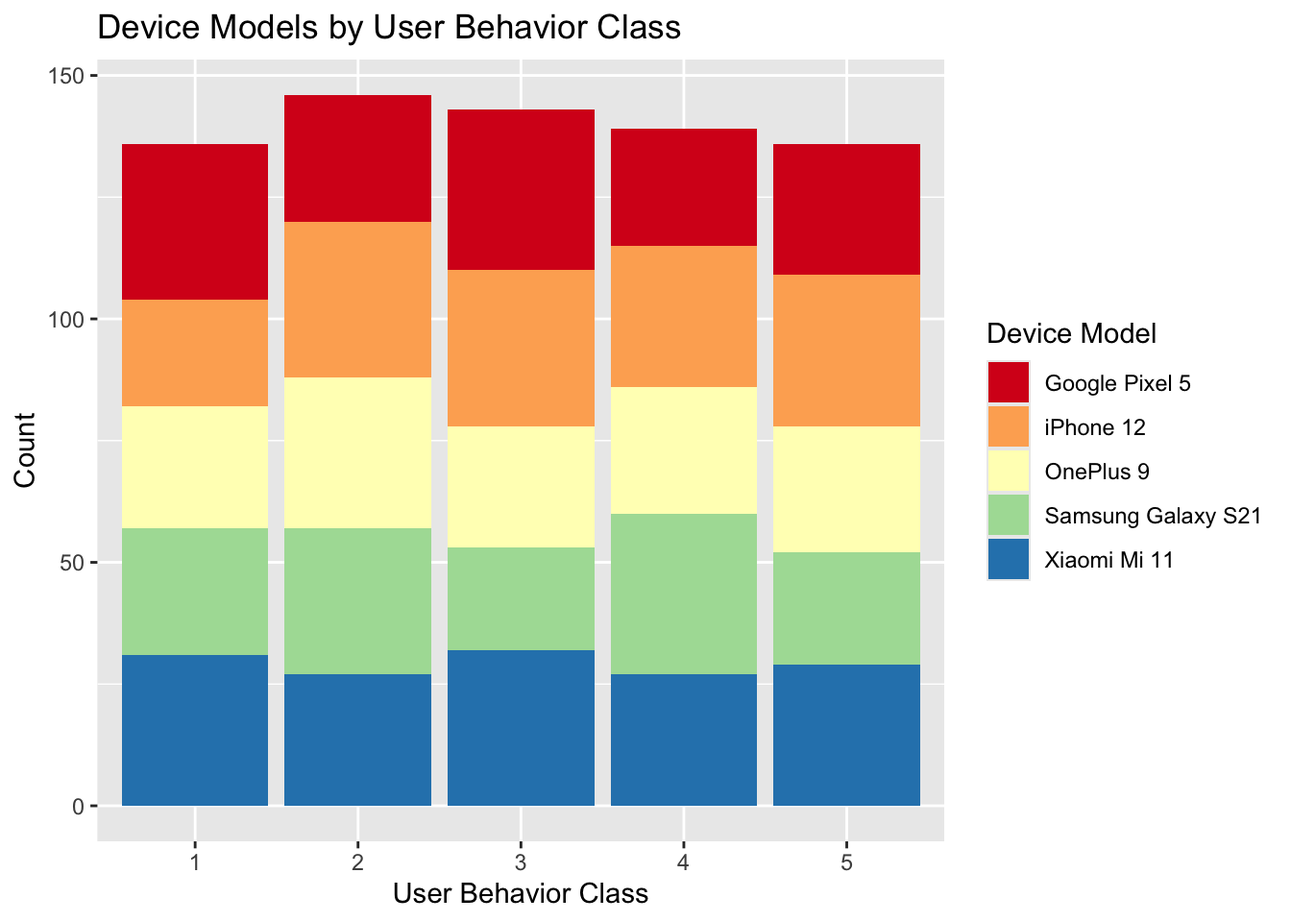
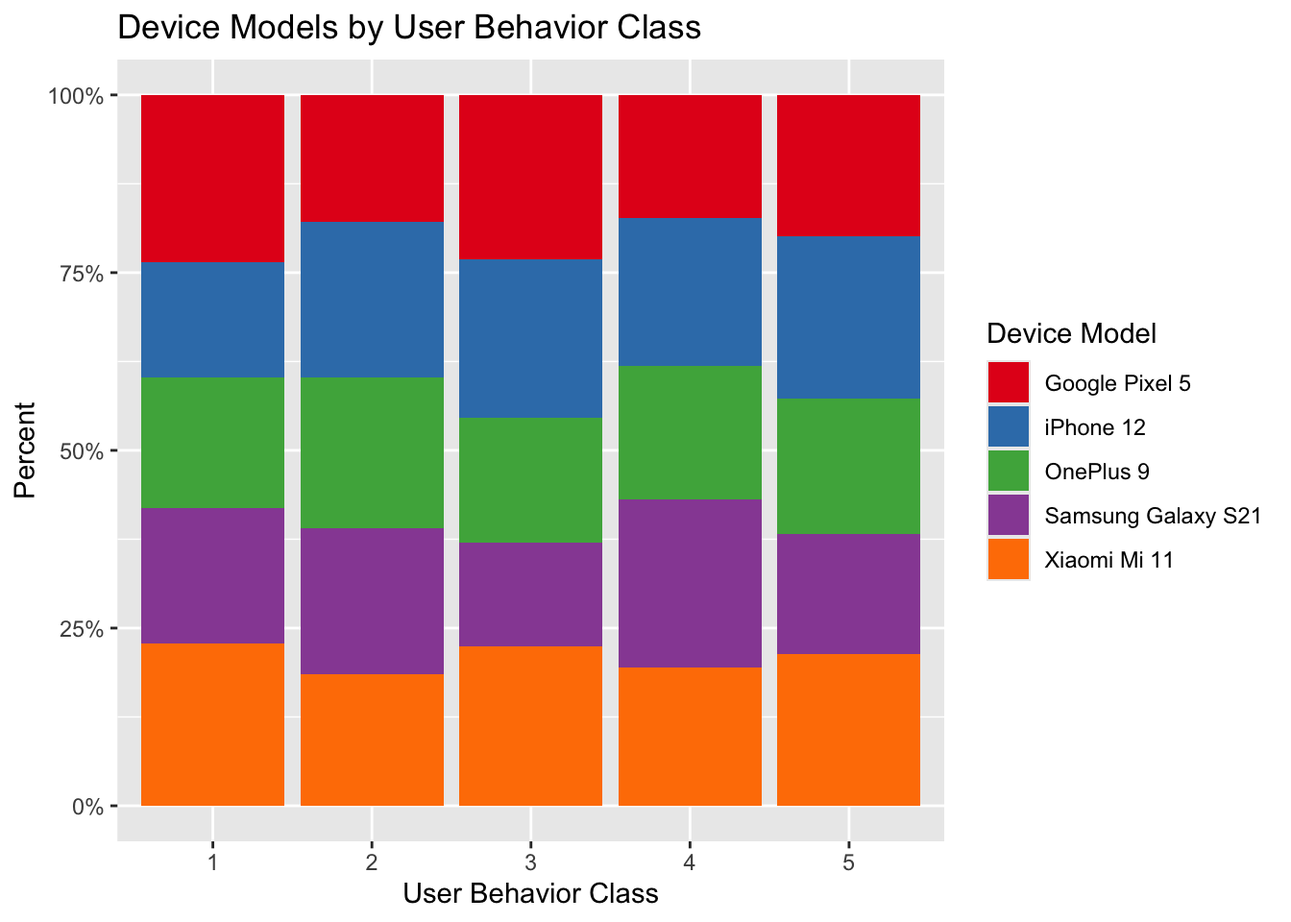
Graphs created

diff --git a/docs/mobile_usage_app_prep.html b/docs/mobile_usage_app_prep.html
@@ -157,14 +157,16 @@ The following objects are masked from 'package:stats':
 
     chisq.test, fisher.test</code></pre>
 </div>
+<div class="sourceCode cell-code" id="cb5"><pre class="sourceCode r code-with-copy"><code class="sourceCode r"><span id="cb5-1"><a href="#cb5-1" aria-hidden="true" tabindex="-1"></a><span class="fu">library</span>(ggalluvial)</span>
+<span id="cb5-2"><a href="#cb5-2" aria-hidden="true" tabindex="-1"></a><span class="fu">library</span>(ggmosaic)</span></code><button title="Copy to Clipboard" class="code-copy-button"><i class="bi"></i></button></pre></div>
 </div>
 <p>###Read in data set</p>
 <div class="cell">
-<div class="sourceCode cell-code" id="cb5"><pre class="sourceCode r code-with-copy"><code class="sourceCode r"><span id="cb5-1"><a href="#cb5-1" aria-hidden="true" tabindex="-1"></a>user_behavior_dataset <span class="ot">&lt;-</span></span>
-<span id="cb5-2"><a href="#cb5-2" aria-hidden="true" tabindex="-1"></a>  <span class="fu">read_csv</span>(<span class="st">"user_behavior_dataset.csv"</span>) <span class="sc">|&gt;</span></span>
-<span id="cb5-3"><a href="#cb5-3" aria-hidden="true" tabindex="-1"></a>  <span class="fu">clean_names</span>() <span class="sc">|&gt;</span></span>
-<span id="cb5-4"><a href="#cb5-4" aria-hidden="true" tabindex="-1"></a>  <span class="fu">mutate</span>(<span class="fu">across</span>(<span class="fu">c</span>(device_model, operating_system, gender, user_behavior_class), as.factor)) <span class="sc">|&gt;</span></span>
-<span id="cb5-5"><a href="#cb5-5" aria-hidden="true" tabindex="-1"></a>  <span class="fu">mutate</span>(<span class="at">user_id =</span> <span class="fu">as.character</span>(user_id))</span></code><button title="Copy to Clipboard" class="code-copy-button"><i class="bi"></i></button></pre></div>
+<div class="sourceCode cell-code" id="cb6"><pre class="sourceCode r code-with-copy"><code class="sourceCode r"><span id="cb6-1"><a href="#cb6-1" aria-hidden="true" tabindex="-1"></a>user_behavior_dataset <span class="ot">&lt;-</span></span>
+<span id="cb6-2"><a href="#cb6-2" aria-hidden="true" tabindex="-1"></a>  <span class="fu">read_csv</span>(<span class="st">"user_behavior_dataset.csv"</span>) <span class="sc">|&gt;</span></span>
+<span id="cb6-3"><a href="#cb6-3" aria-hidden="true" tabindex="-1"></a>  <span class="fu">clean_names</span>() <span class="sc">|&gt;</span></span>
+<span id="cb6-4"><a href="#cb6-4" aria-hidden="true" tabindex="-1"></a>  <span class="fu">mutate</span>(<span class="fu">across</span>(<span class="fu">c</span>(device_model, operating_system, gender, user_behavior_class), as.factor)) <span class="sc">|&gt;</span></span>
+<span id="cb6-5"><a href="#cb6-5" aria-hidden="true" tabindex="-1"></a>  <span class="fu">mutate</span>(<span class="at">user_id =</span> <span class="fu">as.character</span>(user_id))</span></code><button title="Copy to Clipboard" class="code-copy-button"><i class="bi"></i></button></pre></div>
 <div class="cell-output cell-output-stderr">
 <pre><code>Rows: 700 Columns: 11
 ── Column specification ────────────────────────────────────────────────────────
@@ -179,9 +181,9 @@ dbl (8): User ID, App Usage Time (min/day), Screen On Time (hours/day), Batt...
 <p>##Numerical and graphical summaries</p>
 <p>###One-way and two-way contingency tables</p>
 <div class="cell">
-<div class="sourceCode cell-code" id="cb7"><pre class="sourceCode r code-with-copy"><code class="sourceCode r"><span id="cb7-1"><a href="#cb7-1" aria-hidden="true" tabindex="-1"></a>user_behavior_dataset <span class="sc">|&gt;</span></span>
-<span id="cb7-2"><a href="#cb7-2" aria-hidden="true" tabindex="-1"></a>  <span class="fu">group_by</span>(device_model) <span class="sc">|&gt;</span></span>
-<span id="cb7-3"><a href="#cb7-3" aria-hidden="true" tabindex="-1"></a>  <span class="fu">summarise</span>(<span class="at">count =</span> <span class="fu">n</span>())</span></code><button title="Copy to Clipboard" class="code-copy-button"><i class="bi"></i></button></pre></div>
+<div class="sourceCode cell-code" id="cb8"><pre class="sourceCode r code-with-copy"><code class="sourceCode r"><span id="cb8-1"><a href="#cb8-1" aria-hidden="true" tabindex="-1"></a>user_behavior_dataset <span class="sc">|&gt;</span></span>
+<span id="cb8-2"><a href="#cb8-2" aria-hidden="true" tabindex="-1"></a>  <span class="fu">group_by</span>(device_model) <span class="sc">|&gt;</span></span>
+<span id="cb8-3"><a href="#cb8-3" aria-hidden="true" tabindex="-1"></a>  <span class="fu">summarise</span>(<span class="at">count =</span> <span class="fu">n</span>())</span></code><button title="Copy to Clipboard" class="code-copy-button"><i class="bi"></i></button></pre></div>
 <div class="cell-output cell-output-stdout">
 <pre><code># A tibble: 5 × 2
   device_model       count
@@ -194,10 +196,10 @@ dbl (8): User ID, App Usage Time (min/day), Screen On Time (hours/day), Batt...
 </div>
 </div>
 <div class="cell">
-<div class="sourceCode cell-code" id="cb9"><pre class="sourceCode r code-with-copy"><code class="sourceCode r"><span id="cb9-1"><a href="#cb9-1" aria-hidden="true" tabindex="-1"></a>user_behavior_dataset <span class="sc">|&gt;</span></span>
-<span id="cb9-2"><a href="#cb9-2" aria-hidden="true" tabindex="-1"></a>  <span class="fu">group_by</span>(device_model, gender) <span class="sc">|&gt;</span></span>
-<span id="cb9-3"><a href="#cb9-3" aria-hidden="true" tabindex="-1"></a>  <span class="fu">summarise</span>(<span class="at">count =</span> <span class="fu">n</span>()) <span class="sc">|&gt;</span></span>
-<span id="cb9-4"><a href="#cb9-4" aria-hidden="true" tabindex="-1"></a>  <span class="fu">pivot_wider</span>(<span class="at">names_from =</span> gender, <span class="at">values_from =</span> count)</span></code><button title="Copy to Clipboard" class="code-copy-button"><i class="bi"></i></button></pre></div>
+<div class="sourceCode cell-code" id="cb10"><pre class="sourceCode r code-with-copy"><code class="sourceCode r"><span id="cb10-1"><a href="#cb10-1" aria-hidden="true" tabindex="-1"></a>user_behavior_dataset <span class="sc">|&gt;</span></span>
+<span id="cb10-2"><a href="#cb10-2" aria-hidden="true" tabindex="-1"></a>  <span class="fu">group_by</span>(device_model, gender) <span class="sc">|&gt;</span></span>
+<span id="cb10-3"><a href="#cb10-3" aria-hidden="true" tabindex="-1"></a>  <span class="fu">summarise</span>(<span class="at">count =</span> <span class="fu">n</span>()) <span class="sc">|&gt;</span></span>
+<span id="cb10-4"><a href="#cb10-4" aria-hidden="true" tabindex="-1"></a>  <span class="fu">pivot_wider</span>(<span class="at">names_from =</span> gender, <span class="at">values_from =</span> count)</span></code><button title="Copy to Clipboard" class="code-copy-button"><i class="bi"></i></button></pre></div>
 <div class="cell-output cell-output-stderr">
 <pre><code>`summarise()` has grouped output by 'device_model'. You can override using the
 `.groups` argument.</code></pre>
@@ -216,12 +218,12 @@ dbl (8): User ID, App Usage Time (min/day), Screen On Time (hours/day), Batt...
 </div>
 <p>###Numeric summaries (means, medians, sds, etc.) for quantitative variables at levels of categorical variables</p>
 <div class="cell">
-<div class="sourceCode cell-code" id="cb12"><pre class="sourceCode r code-with-copy"><code class="sourceCode r"><span id="cb12-1"><a href="#cb12-1" aria-hidden="true" tabindex="-1"></a>user_behavior_dataset <span class="sc">|&gt;</span></span>
-<span id="cb12-2"><a href="#cb12-2" aria-hidden="true" tabindex="-1"></a>  <span class="fu">group_by</span>(user_behavior_class) <span class="sc">|&gt;</span></span>
-<span id="cb12-3"><a href="#cb12-3" aria-hidden="true" tabindex="-1"></a>  <span class="fu">summarise</span>(<span class="fu">across</span>(<span class="fu">where</span>(is.numeric),</span>
-<span id="cb12-4"><a href="#cb12-4" aria-hidden="true" tabindex="-1"></a>                   <span class="fu">list</span>(<span class="st">"mean"</span> <span class="ot">=</span> mean, <span class="st">"median"</span> <span class="ot">=</span> median, <span class="st">"stdev"</span> <span class="ot">=</span> sd, <span class="st">"IQR"</span> <span class="ot">=</span> IQR),</span>
-<span id="cb12-5"><a href="#cb12-5" aria-hidden="true" tabindex="-1"></a>                   <span class="at">.names =</span> <span class="st">"{.fn}_{.col}"</span>))<span class="sc">|&gt;</span></span>
-<span id="cb12-6"><a href="#cb12-6" aria-hidden="true" tabindex="-1"></a>  <span class="fu">mutate</span>(<span class="fu">across</span>(<span class="fu">where</span>(is.numeric), round, <span class="dv">2</span>))</span></code><button title="Copy to Clipboard" class="code-copy-button"><i class="bi"></i></button></pre></div>
+<div class="sourceCode cell-code" id="cb13"><pre class="sourceCode r code-with-copy"><code class="sourceCode r"><span id="cb13-1"><a href="#cb13-1" aria-hidden="true" tabindex="-1"></a>user_behavior_dataset <span class="sc">|&gt;</span></span>
+<span id="cb13-2"><a href="#cb13-2" aria-hidden="true" tabindex="-1"></a>  <span class="fu">group_by</span>(user_behavior_class) <span class="sc">|&gt;</span></span>
+<span id="cb13-3"><a href="#cb13-3" aria-hidden="true" tabindex="-1"></a>  <span class="fu">summarise</span>(<span class="fu">across</span>(<span class="fu">where</span>(is.numeric),</span>
+<span id="cb13-4"><a href="#cb13-4" aria-hidden="true" tabindex="-1"></a>                   <span class="fu">list</span>(<span class="st">"mean"</span> <span class="ot">=</span> mean, <span class="st">"median"</span> <span class="ot">=</span> median, <span class="st">"stdev"</span> <span class="ot">=</span> sd, <span class="st">"IQR"</span> <span class="ot">=</span> IQR),</span>
+<span id="cb13-5"><a href="#cb13-5" aria-hidden="true" tabindex="-1"></a>                   <span class="at">.names =</span> <span class="st">"{.fn}_{.col}"</span>))<span class="sc">|&gt;</span></span>
+<span id="cb13-6"><a href="#cb13-6" aria-hidden="true" tabindex="-1"></a>  <span class="fu">mutate</span>(<span class="fu">across</span>(<span class="fu">where</span>(is.numeric), round, <span class="dv">2</span>))</span></code><button title="Copy to Clipboard" class="code-copy-button"><i class="bi"></i></button></pre></div>
 <div class="cell-output cell-output-stderr">
 <pre><code>Warning: There was 1 warning in `mutate()`.
 ℹ In argument: `across(where(is.numeric), round, 2)`.
@@ -254,12 +256,12 @@ Supply arguments directly to `.fns` through an anonymous function instead.
 </div>
 </div>
 <div class="cell">
-<div class="sourceCode cell-code" id="cb15"><pre class="sourceCode r code-with-copy"><code class="sourceCode r"><span id="cb15-1"><a href="#cb15-1" aria-hidden="true" tabindex="-1"></a>user_behavior_dataset <span class="sc">|&gt;</span></span>
-<span id="cb15-2"><a href="#cb15-2" aria-hidden="true" tabindex="-1"></a>  <span class="fu">group_by</span>(gender) <span class="sc">|&gt;</span></span>
-<span id="cb15-3"><a href="#cb15-3" aria-hidden="true" tabindex="-1"></a>  <span class="fu">summarise</span>(<span class="fu">across</span>(<span class="fu">where</span>(is.numeric),</span>
-<span id="cb15-4"><a href="#cb15-4" aria-hidden="true" tabindex="-1"></a>                   <span class="fu">list</span>(<span class="st">"mean"</span> <span class="ot">=</span> mean, <span class="st">"median"</span> <span class="ot">=</span> median, <span class="st">"stdev"</span> <span class="ot">=</span> sd, <span class="st">"IQR"</span> <span class="ot">=</span> IQR),</span>
-<span id="cb15-5"><a href="#cb15-5" aria-hidden="true" tabindex="-1"></a>                   <span class="at">.names =</span> <span class="st">"{.fn}_{.col}"</span>))<span class="sc">|&gt;</span></span>
-<span id="cb15-6"><a href="#cb15-6" aria-hidden="true" tabindex="-1"></a>  <span class="fu">mutate</span>(<span class="fu">across</span>(<span class="fu">where</span>(is.numeric), round, <span class="dv">2</span>))</span></code><button title="Copy to Clipboard" class="code-copy-button"><i class="bi"></i></button></pre></div>
+<div class="sourceCode cell-code" id="cb16"><pre class="sourceCode r code-with-copy"><code class="sourceCode r"><span id="cb16-1"><a href="#cb16-1" aria-hidden="true" tabindex="-1"></a>user_behavior_dataset <span class="sc">|&gt;</span></span>
+<span id="cb16-2"><a href="#cb16-2" aria-hidden="true" tabindex="-1"></a>  <span class="fu">group_by</span>(gender) <span class="sc">|&gt;</span></span>
+<span id="cb16-3"><a href="#cb16-3" aria-hidden="true" tabindex="-1"></a>  <span class="fu">summarise</span>(<span class="fu">across</span>(<span class="fu">where</span>(is.numeric),</span>
+<span id="cb16-4"><a href="#cb16-4" aria-hidden="true" tabindex="-1"></a>                   <span class="fu">list</span>(<span class="st">"mean"</span> <span class="ot">=</span> mean, <span class="st">"median"</span> <span class="ot">=</span> median, <span class="st">"stdev"</span> <span class="ot">=</span> sd, <span class="st">"IQR"</span> <span class="ot">=</span> IQR),</span>
+<span id="cb16-5"><a href="#cb16-5" aria-hidden="true" tabindex="-1"></a>                   <span class="at">.names =</span> <span class="st">"{.fn}_{.col}"</span>))<span class="sc">|&gt;</span></span>
+<span id="cb16-6"><a href="#cb16-6" aria-hidden="true" tabindex="-1"></a>  <span class="fu">mutate</span>(<span class="fu">across</span>(<span class="fu">where</span>(is.numeric), round, <span class="dv">2</span>))</span></code><button title="Copy to Clipboard" class="code-copy-button"><i class="bi"></i></button></pre></div>
 <div class="cell-output cell-output-stdout">
 <pre><code># A tibble: 2 × 25
   gender mean_app_usage_time_min…¹ median_app_usage_tim…² stdev_app_usage_time…³
@@ -276,12 +278,12 @@ Supply arguments directly to `.fns` through an anonymous function instead.
 </div>
 </div>
 <div class="cell">
-<div class="sourceCode cell-code" id="cb17"><pre class="sourceCode r code-with-copy"><code class="sourceCode r"><span id="cb17-1"><a href="#cb17-1" aria-hidden="true" tabindex="-1"></a>user_behavior_dataset <span class="sc">|&gt;</span></span>
-<span id="cb17-2"><a href="#cb17-2" aria-hidden="true" tabindex="-1"></a>  <span class="fu">group_by</span>(device_model) <span class="sc">|&gt;</span></span>
-<span id="cb17-3"><a href="#cb17-3" aria-hidden="true" tabindex="-1"></a>  <span class="fu">summarise</span>(<span class="fu">across</span>(<span class="fu">where</span>(is.numeric),</span>
-<span id="cb17-4"><a href="#cb17-4" aria-hidden="true" tabindex="-1"></a>                   <span class="fu">list</span>(<span class="st">"mean"</span> <span class="ot">=</span> mean, <span class="st">"median"</span> <span class="ot">=</span> median, <span class="st">"stdev"</span> <span class="ot">=</span> sd, <span class="st">"IQR"</span> <span class="ot">=</span> IQR),</span>
-<span id="cb17-5"><a href="#cb17-5" aria-hidden="true" tabindex="-1"></a>                   <span class="at">.names =</span> <span class="st">"{.fn}_{.col}"</span>))<span class="sc">|&gt;</span></span>
-<span id="cb17-6"><a href="#cb17-6" aria-hidden="true" tabindex="-1"></a>  <span class="fu">mutate</span>(<span class="fu">across</span>(<span class="fu">where</span>(is.numeric), round, <span class="dv">2</span>))</span></code><button title="Copy to Clipboard" class="code-copy-button"><i class="bi"></i></button></pre></div>
+<div class="sourceCode cell-code" id="cb18"><pre class="sourceCode r code-with-copy"><code class="sourceCode r"><span id="cb18-1"><a href="#cb18-1" aria-hidden="true" tabindex="-1"></a>user_behavior_dataset <span class="sc">|&gt;</span></span>
+<span id="cb18-2"><a href="#cb18-2" aria-hidden="true" tabindex="-1"></a>  <span class="fu">group_by</span>(device_model) <span class="sc">|&gt;</span></span>
+<span id="cb18-3"><a href="#cb18-3" aria-hidden="true" tabindex="-1"></a>  <span class="fu">summarise</span>(<span class="fu">across</span>(<span class="fu">where</span>(is.numeric),</span>
+<span id="cb18-4"><a href="#cb18-4" aria-hidden="true" tabindex="-1"></a>                   <span class="fu">list</span>(<span class="st">"mean"</span> <span class="ot">=</span> mean, <span class="st">"median"</span> <span class="ot">=</span> median, <span class="st">"stdev"</span> <span class="ot">=</span> sd, <span class="st">"IQR"</span> <span class="ot">=</span> IQR),</span>
+<span id="cb18-5"><a href="#cb18-5" aria-hidden="true" tabindex="-1"></a>                   <span class="at">.names =</span> <span class="st">"{.fn}_{.col}"</span>))<span class="sc">|&gt;</span></span>
+<span id="cb18-6"><a href="#cb18-6" aria-hidden="true" tabindex="-1"></a>  <span class="fu">mutate</span>(<span class="fu">across</span>(<span class="fu">where</span>(is.numeric), round, <span class="dv">2</span>))</span></code><button title="Copy to Clipboard" class="code-copy-button"><i class="bi"></i></button></pre></div>
 <div class="cell-output cell-output-stdout">
 <pre><code># A tibble: 5 × 25
   device_model       mean_app_usage_time_min_day median_app_usage_time_min_day
@@ -301,12 +303,12 @@ Supply arguments directly to `.fns` through an anonymous function instead.
 </div>
 </div>
 <div class="cell">
-<div class="sourceCode cell-code" id="cb19"><pre class="sourceCode r code-with-copy"><code class="sourceCode r"><span id="cb19-1"><a href="#cb19-1" aria-hidden="true" tabindex="-1"></a>user_behavior_dataset <span class="sc">|&gt;</span></span>
-<span id="cb19-2"><a href="#cb19-2" aria-hidden="true" tabindex="-1"></a>  <span class="fu">group_by</span>(operating_system) <span class="sc">|&gt;</span></span>
-<span id="cb19-3"><a href="#cb19-3" aria-hidden="true" tabindex="-1"></a>  <span class="fu">summarise</span>(<span class="fu">across</span>(<span class="fu">where</span>(is.numeric),</span>
-<span id="cb19-4"><a href="#cb19-4" aria-hidden="true" tabindex="-1"></a>                   <span class="fu">list</span>(<span class="st">"mean"</span> <span class="ot">=</span> mean, <span class="st">"median"</span> <span class="ot">=</span> median, <span class="st">"stdev"</span> <span class="ot">=</span> sd, <span class="st">"IQR"</span> <span class="ot">=</span> IQR),</span>
-<span id="cb19-5"><a href="#cb19-5" aria-hidden="true" tabindex="-1"></a>                   <span class="at">.names =</span> <span class="st">"{.fn}_{.col}"</span>))<span class="sc">|&gt;</span></span>
-<span id="cb19-6"><a href="#cb19-6" aria-hidden="true" tabindex="-1"></a>  <span class="fu">mutate</span>(<span class="fu">across</span>(<span class="fu">where</span>(is.numeric), round, <span class="dv">2</span>))</span></code><button title="Copy to Clipboard" class="code-copy-button"><i class="bi"></i></button></pre></div>
+<div class="sourceCode cell-code" id="cb20"><pre class="sourceCode r code-with-copy"><code class="sourceCode r"><span id="cb20-1"><a href="#cb20-1" aria-hidden="true" tabindex="-1"></a>user_behavior_dataset <span class="sc">|&gt;</span></span>
+<span id="cb20-2"><a href="#cb20-2" aria-hidden="true" tabindex="-1"></a>  <span class="fu">group_by</span>(operating_system) <span class="sc">|&gt;</span></span>
+<span id="cb20-3"><a href="#cb20-3" aria-hidden="true" tabindex="-1"></a>  <span class="fu">summarise</span>(<span class="fu">across</span>(<span class="fu">where</span>(is.numeric),</span>
+<span id="cb20-4"><a href="#cb20-4" aria-hidden="true" tabindex="-1"></a>                   <span class="fu">list</span>(<span class="st">"mean"</span> <span class="ot">=</span> mean, <span class="st">"median"</span> <span class="ot">=</span> median, <span class="st">"stdev"</span> <span class="ot">=</span> sd, <span class="st">"IQR"</span> <span class="ot">=</span> IQR),</span>
+<span id="cb20-5"><a href="#cb20-5" aria-hidden="true" tabindex="-1"></a>                   <span class="at">.names =</span> <span class="st">"{.fn}_{.col}"</span>))<span class="sc">|&gt;</span></span>
+<span id="cb20-6"><a href="#cb20-6" aria-hidden="true" tabindex="-1"></a>  <span class="fu">mutate</span>(<span class="fu">across</span>(<span class="fu">where</span>(is.numeric), round, <span class="dv">2</span>))</span></code><button title="Copy to Clipboard" class="code-copy-button"><i class="bi"></i></button></pre></div>
 <div class="cell-output cell-output-stdout">
 <pre><code># A tibble: 2 × 25
   operating_system mean_app_usage_time_min_day median_app_usage_time_min_day
@@ -323,14 +325,15 @@ Supply arguments directly to `.fns` through an anonymous function instead.
 </div>
 </div>
 <div class="cell">
-<div class="sourceCode cell-code" id="cb21"><pre class="sourceCode r code-with-copy"><code class="sourceCode r"><span id="cb21-1"><a href="#cb21-1" aria-hidden="true" tabindex="-1"></a>user_behavior_dataset <span class="sc">|&gt;</span></span>
-<span id="cb21-2"><a href="#cb21-2" aria-hidden="true" tabindex="-1"></a>  <span class="fu">ggplot</span>(<span class="fu">aes</span>(<span class="at">x =</span> user_behavior_class, <span class="at">fill =</span> device_model)) <span class="sc">+</span></span>
-<span id="cb21-3"><a href="#cb21-3" aria-hidden="true" tabindex="-1"></a>  <span class="fu">geom_bar</span>() <span class="sc">+</span></span>
-<span id="cb21-4"><a href="#cb21-4" aria-hidden="true" tabindex="-1"></a>  <span class="fu">xlab</span>(<span class="st">"User Behavior Class"</span>) <span class="sc">+</span></span>
-<span id="cb21-5"><a href="#cb21-5" aria-hidden="true" tabindex="-1"></a>  <span class="fu">ylab</span>(<span class="st">"Count"</span>) <span class="sc">+</span></span>
-<span id="cb21-6"><a href="#cb21-6" aria-hidden="true" tabindex="-1"></a>  <span class="fu">labs</span>(<span class="at">fill =</span> <span class="st">"Device Model"</span>) <span class="sc">+</span></span>
-<span id="cb21-7"><a href="#cb21-7" aria-hidden="true" tabindex="-1"></a>  <span class="fu">ggtitle</span>(<span class="st">"Device Models by User Behavior Class"</span>) <span class="sc">+</span></span>
-<span id="cb21-8"><a href="#cb21-8" aria-hidden="true" tabindex="-1"></a>  <span class="fu">scale_fill_brewer</span>(<span class="at">palette=</span><span class="st">"Spectral"</span>)</span></code><button title="Copy to Clipboard" class="code-copy-button"><i class="bi"></i></button></pre></div>
+<div class="sourceCode cell-code" id="cb22"><pre class="sourceCode r code-with-copy"><code class="sourceCode r"><span id="cb22-1"><a href="#cb22-1" aria-hidden="true" tabindex="-1"></a>user_behavior_dataset <span class="sc">|&gt;</span></span>
+<span id="cb22-2"><a href="#cb22-2" aria-hidden="true" tabindex="-1"></a>  <span class="fu">ggplot</span>(<span class="fu">aes</span>(<span class="at">x =</span> user_behavior_class, <span class="at">fill =</span> device_model)) <span class="sc">+</span></span>
+<span id="cb22-3"><a href="#cb22-3" aria-hidden="true" tabindex="-1"></a>  <span class="fu">geom_bar</span>(<span class="at">position =</span> <span class="st">"fill"</span>) <span class="sc">+</span></span>
+<span id="cb22-4"><a href="#cb22-4" aria-hidden="true" tabindex="-1"></a>  <span class="fu">xlab</span>(<span class="st">"User Behavior Class"</span>) <span class="sc">+</span></span>
+<span id="cb22-5"><a href="#cb22-5" aria-hidden="true" tabindex="-1"></a>  <span class="fu">ylab</span>(<span class="st">"Percent"</span>) <span class="sc">+</span></span>
+<span id="cb22-6"><a href="#cb22-6" aria-hidden="true" tabindex="-1"></a>  <span class="fu">scale_y_continuous</span>(<span class="at">labels =</span> scales<span class="sc">::</span>percent) <span class="sc">+</span></span>
+<span id="cb22-7"><a href="#cb22-7" aria-hidden="true" tabindex="-1"></a>  <span class="fu">labs</span>(<span class="at">fill =</span> <span class="st">"Device Model"</span>) <span class="sc">+</span></span>
+<span id="cb22-8"><a href="#cb22-8" aria-hidden="true" tabindex="-1"></a>  <span class="fu">ggtitle</span>(<span class="st">"Device Models by User Behavior Class"</span>) <span class="sc">+</span></span>
+<span id="cb22-9"><a href="#cb22-9" aria-hidden="true" tabindex="-1"></a>  <span class="fu">scale_fill_brewer</span>(<span class="at">palette=</span><span class="st">"Set1"</span>)</span></code><button title="Copy to Clipboard" class="code-copy-button"><i class="bi"></i></button></pre></div>
 <div class="cell-output-display">
 <div>
 <figure class="figure">
@@ -340,18 +343,159 @@ Supply arguments directly to `.fns` through an anonymous function instead.
 </div>
 </div>
 <div class="cell">
-<div class="sourceCode cell-code" id="cb22"><pre class="sourceCode r code-with-copy"><code class="sourceCode r"><span id="cb22-1"><a href="#cb22-1" aria-hidden="true" tabindex="-1"></a>user_behavior_dataset <span class="sc">|&gt;</span></span>
-<span id="cb22-2"><a href="#cb22-2" aria-hidden="true" tabindex="-1"></a>  <span class="fu">ggplot</span>(<span class="fu">aes</span>(<span class="at">x =</span> gender, <span class="at">fill =</span> user_behavior_class)) <span class="sc">+</span></span>
-<span id="cb22-3"><a href="#cb22-3" aria-hidden="true" tabindex="-1"></a>  <span class="fu">geom_bar</span>(<span class="at">position =</span> <span class="st">"dodge"</span>) <span class="sc">+</span></span>
-<span id="cb22-4"><a href="#cb22-4" aria-hidden="true" tabindex="-1"></a>  <span class="fu">xlab</span>(<span class="st">"Gender"</span>) <span class="sc">+</span></span>
-<span id="cb22-5"><a href="#cb22-5" aria-hidden="true" tabindex="-1"></a>  <span class="fu">ylab</span>(<span class="st">"Count"</span>) <span class="sc">+</span></span>
-<span id="cb22-6"><a href="#cb22-6" aria-hidden="true" tabindex="-1"></a>  <span class="fu">labs</span>(<span class="at">fill =</span> <span class="st">"User Behavior Class"</span>) <span class="sc">+</span></span>
-<span id="cb22-7"><a href="#cb22-7" aria-hidden="true" tabindex="-1"></a>  <span class="fu">ggtitle</span>(<span class="st">"User Behavior Class by Gender"</span>) <span class="sc">+</span></span>
-<span id="cb22-8"><a href="#cb22-8" aria-hidden="true" tabindex="-1"></a>  <span class="fu">scale_fill_brewer</span>(<span class="at">palette=</span><span class="st">"Spectral"</span>)</span></code><button title="Copy to Clipboard" class="code-copy-button"><i class="bi"></i></button></pre></div>
+<div class="sourceCode cell-code" id="cb23"><pre class="sourceCode r code-with-copy"><code class="sourceCode r"><span id="cb23-1"><a href="#cb23-1" aria-hidden="true" tabindex="-1"></a>user_behavior_dataset <span class="sc">|&gt;</span></span>
+<span id="cb23-2"><a href="#cb23-2" aria-hidden="true" tabindex="-1"></a>  <span class="fu">ggplot</span>(<span class="fu">aes</span>(<span class="at">x =</span> gender, <span class="at">fill =</span> user_behavior_class)) <span class="sc">+</span></span>
+<span id="cb23-3"><a href="#cb23-3" aria-hidden="true" tabindex="-1"></a>  <span class="fu">geom_bar</span>(<span class="at">position =</span> <span class="st">"dodge"</span>) <span class="sc">+</span></span>
+<span id="cb23-4"><a href="#cb23-4" aria-hidden="true" tabindex="-1"></a>  <span class="fu">xlab</span>(<span class="st">"Gender"</span>) <span class="sc">+</span></span>
+<span id="cb23-5"><a href="#cb23-5" aria-hidden="true" tabindex="-1"></a>  <span class="fu">ylab</span>(<span class="st">"Count"</span>) <span class="sc">+</span></span>
+<span id="cb23-6"><a href="#cb23-6" aria-hidden="true" tabindex="-1"></a>  <span class="fu">labs</span>(<span class="at">fill =</span> <span class="st">"User Behavior Class"</span>) <span class="sc">+</span></span>
+<span id="cb23-7"><a href="#cb23-7" aria-hidden="true" tabindex="-1"></a>  <span class="fu">ggtitle</span>(<span class="st">"User Behavior Class by Gender"</span>) <span class="sc">+</span></span>
+<span id="cb23-8"><a href="#cb23-8" aria-hidden="true" tabindex="-1"></a>  <span class="fu">scale_fill_brewer</span>(<span class="at">palette=</span><span class="st">"Set1"</span>)</span></code><button title="Copy to Clipboard" class="code-copy-button"><i class="bi"></i></button></pre></div>
 <div class="cell-output-display">
 <div>
 <figure class="figure">
 <p><img src="mobile_usage_app_prep_files/figure-html/unnamed-chunk-10-1.png" class="img-fluid figure-img" width="672"></p>
+</figure>
+</div>
+</div>
+</div>
+<div class="cell">
+<div class="sourceCode cell-code" id="cb24"><pre class="sourceCode r code-with-copy"><code class="sourceCode r"><span id="cb24-1"><a href="#cb24-1" aria-hidden="true" tabindex="-1"></a>user_behavior_dataset <span class="sc">|&gt;</span></span>
+<span id="cb24-2"><a href="#cb24-2" aria-hidden="true" tabindex="-1"></a>  <span class="fu">ggplot</span>(<span class="fu">aes</span>(number_of_apps_installed, operating_system)) <span class="sc">+</span></span>
+<span id="cb24-3"><a href="#cb24-3" aria-hidden="true" tabindex="-1"></a>  <span class="fu">geom_boxplot</span>(<span class="fu">aes</span>(<span class="at">fill =</span> operating_system)) <span class="sc">+</span></span>
+<span id="cb24-4"><a href="#cb24-4" aria-hidden="true" tabindex="-1"></a>  <span class="fu">coord_flip</span>() <span class="sc">+</span></span>
+<span id="cb24-5"><a href="#cb24-5" aria-hidden="true" tabindex="-1"></a>  <span class="fu">xlab</span>(<span class="st">"Number of Apps Installed"</span>) <span class="sc">+</span></span>
+<span id="cb24-6"><a href="#cb24-6" aria-hidden="true" tabindex="-1"></a>  <span class="fu">ylab</span>(<span class="st">"Operating System"</span>) <span class="sc">+</span></span>
+<span id="cb24-7"><a href="#cb24-7" aria-hidden="true" tabindex="-1"></a>  <span class="fu">labs</span>(<span class="at">title =</span> <span class="st">"App Installation Distribution"</span>,</span>
+<span id="cb24-8"><a href="#cb24-8" aria-hidden="true" tabindex="-1"></a>       <span class="at">subtitle =</span> <span class="st">"Considering Effects of Operating System"</span>, <span class="at">fill =</span> <span class="st">"Operating System"</span>) <span class="sc">+</span></span>
+<span id="cb24-9"><a href="#cb24-9" aria-hidden="true" tabindex="-1"></a>  <span class="fu">theme</span>(<span class="at">legend.position =</span> <span class="st">"none"</span>) <span class="sc">+</span></span>
+<span id="cb24-10"><a href="#cb24-10" aria-hidden="true" tabindex="-1"></a>  <span class="fu">scale_fill_brewer</span>(<span class="at">palette=</span><span class="st">"Set1"</span>)</span></code><button title="Copy to Clipboard" class="code-copy-button"><i class="bi"></i></button></pre></div>
+<div class="cell-output-display">
+<div>
+<figure class="figure">
+<p><img src="mobile_usage_app_prep_files/figure-html/unnamed-chunk-11-1.png" class="img-fluid figure-img" width="672"></p>
+</figure>
+</div>
+</div>
+</div>
+<div class="cell">
+<div class="sourceCode cell-code" id="cb25"><pre class="sourceCode r code-with-copy"><code class="sourceCode r"><span id="cb25-1"><a href="#cb25-1" aria-hidden="true" tabindex="-1"></a>user_behavior_dataset <span class="sc">|&gt;</span></span>
+<span id="cb25-2"><a href="#cb25-2" aria-hidden="true" tabindex="-1"></a>  <span class="fu">select</span>(<span class="fu">where</span>(is.numeric)) <span class="sc">|&gt;</span></span>
+<span id="cb25-3"><a href="#cb25-3" aria-hidden="true" tabindex="-1"></a>  <span class="fu">cor</span>() <span class="sc">|&gt;</span></span>
+<span id="cb25-4"><a href="#cb25-4" aria-hidden="true" tabindex="-1"></a>  <span class="fu">round</span>(<span class="dv">2</span>)</span></code><button title="Copy to Clipboard" class="code-copy-button"><i class="bi"></i></button></pre></div>
+<div class="cell-output cell-output-stdout">
+<pre><code>                         app_usage_time_min_day screen_on_time_hours_day
+app_usage_time_min_day                     1.00                     0.95
+screen_on_time_hours_day                   0.95                     1.00
+battery_drain_m_ah_day                     0.96                     0.95
+number_of_apps_installed                   0.96                     0.95
+data_usage_mb_day                          0.94                     0.94
+age                                        0.00                     0.02
+                         battery_drain_m_ah_day number_of_apps_installed
+app_usage_time_min_day                     0.96                     0.96
+screen_on_time_hours_day                   0.95                     0.95
+battery_drain_m_ah_day                     1.00                     0.96
+number_of_apps_installed                   0.96                     1.00
+data_usage_mb_day                          0.93                     0.93
+age                                        0.00                     0.00
+                         data_usage_mb_day  age
+app_usage_time_min_day                0.94 0.00
+screen_on_time_hours_day              0.94 0.02
+battery_drain_m_ah_day                0.93 0.00
+number_of_apps_installed              0.93 0.00
+data_usage_mb_day                     1.00 0.00
+age                                   0.00 1.00</code></pre>
+</div>
+</div>
+<div class="cell">
+<div class="sourceCode cell-code" id="cb27"><pre class="sourceCode r code-with-copy"><code class="sourceCode r"><span id="cb27-1"><a href="#cb27-1" aria-hidden="true" tabindex="-1"></a>user_behavior_dataset <span class="sc">|&gt;</span></span>
+<span id="cb27-2"><a href="#cb27-2" aria-hidden="true" tabindex="-1"></a>  <span class="fu">ggplot</span>(<span class="fu">aes</span>(age, screen_on_time_hours_day, <span class="at">color =</span> gender)) <span class="sc">+</span></span>
+<span id="cb27-3"><a href="#cb27-3" aria-hidden="true" tabindex="-1"></a>  <span class="fu">geom_point</span>() <span class="sc">+</span></span>
+<span id="cb27-4"><a href="#cb27-4" aria-hidden="true" tabindex="-1"></a>  <span class="fu">scale_color_brewer</span>(<span class="at">palette =</span> <span class="st">"Set1"</span>) <span class="sc">+</span></span>
+<span id="cb27-5"><a href="#cb27-5" aria-hidden="true" tabindex="-1"></a>  <span class="fu">xlab</span>(<span class="st">"Age"</span>) <span class="sc">+</span></span>
+<span id="cb27-6"><a href="#cb27-6" aria-hidden="true" tabindex="-1"></a>  <span class="fu">ylab</span>(<span class="st">"Screen Time"</span>) <span class="sc">+</span></span>
+<span id="cb27-7"><a href="#cb27-7" aria-hidden="true" tabindex="-1"></a>  <span class="fu">labs</span>(<span class="at">title =</span> <span class="st">"Relationship between Age and Screen Time"</span>,</span>
+<span id="cb27-8"><a href="#cb27-8" aria-hidden="true" tabindex="-1"></a>       <span class="at">subtitle =</span> <span class="st">"Considering Effects of Gender and Device Model"</span>,</span>
+<span id="cb27-9"><a href="#cb27-9" aria-hidden="true" tabindex="-1"></a>       <span class="at">color =</span> <span class="st">"Gender"</span>) <span class="sc">+</span></span>
+<span id="cb27-10"><a href="#cb27-10" aria-hidden="true" tabindex="-1"></a>  <span class="fu">facet_wrap</span>(<span class="sc">~</span> device_model)</span></code><button title="Copy to Clipboard" class="code-copy-button"><i class="bi"></i></button></pre></div>
+<div class="cell-output-display">
+<div>
+<figure class="figure">
+<p><img src="mobile_usage_app_prep_files/figure-html/unnamed-chunk-13-1.png" class="img-fluid figure-img" width="672"></p>
+</figure>
+</div>
+</div>
+</div>
+<div class="cell">
+<div class="sourceCode cell-code" id="cb28"><pre class="sourceCode r code-with-copy"><code class="sourceCode r"><span id="cb28-1"><a href="#cb28-1" aria-hidden="true" tabindex="-1"></a>user_behavior_dataset <span class="sc">|&gt;</span></span>
+<span id="cb28-2"><a href="#cb28-2" aria-hidden="true" tabindex="-1"></a>  <span class="fu">mutate</span>(<span class="at">screen_time =</span> <span class="fu">cut</span>(screen_on_time_hours_day,</span>
+<span id="cb28-3"><a href="#cb28-3" aria-hidden="true" tabindex="-1"></a>                        <span class="at">breaks =</span> <span class="dv">5</span>,</span>
+<span id="cb28-4"><a href="#cb28-4" aria-hidden="true" tabindex="-1"></a>                        <span class="at">labels =</span> <span class="fu">c</span>(<span class="st">"Low"</span>, <span class="st">"Med-Low"</span>, <span class="st">"Medium"</span>, <span class="st">"Med-High"</span>, <span class="st">"High"</span>))) <span class="sc">|&gt;</span></span>
+<span id="cb28-5"><a href="#cb28-5" aria-hidden="true" tabindex="-1"></a>  <span class="fu">mutate</span>(<span class="at">app_usage =</span> <span class="fu">cut</span>(app_usage_time_min_day,</span>
+<span id="cb28-6"><a href="#cb28-6" aria-hidden="true" tabindex="-1"></a>                        <span class="at">breaks =</span> <span class="dv">5</span>,</span>
+<span id="cb28-7"><a href="#cb28-7" aria-hidden="true" tabindex="-1"></a>                        <span class="at">labels =</span> <span class="fu">c</span>(<span class="st">"Low"</span>, <span class="st">"Med-Low"</span>, <span class="st">"Medium"</span>, <span class="st">"Med-High"</span>, <span class="st">"High"</span>))) <span class="sc">|&gt;</span></span>
+<span id="cb28-8"><a href="#cb28-8" aria-hidden="true" tabindex="-1"></a>  <span class="fu">mutate</span>(<span class="at">data_usage =</span> <span class="fu">cut</span>(data_usage_mb_day,</span>
+<span id="cb28-9"><a href="#cb28-9" aria-hidden="true" tabindex="-1"></a>                        <span class="at">breaks =</span> <span class="dv">5</span>,</span>
+<span id="cb28-10"><a href="#cb28-10" aria-hidden="true" tabindex="-1"></a>                        <span class="at">labels =</span> <span class="fu">c</span>(<span class="st">"Low"</span>, <span class="st">"Med-Low"</span>, <span class="st">"Medium"</span>, <span class="st">"Med-High"</span>, <span class="st">"High"</span>))) <span class="sc">|&gt;</span></span>
+<span id="cb28-11"><a href="#cb28-11" aria-hidden="true" tabindex="-1"></a>  <span class="fu">ggplot</span>(<span class="fu">aes</span>(<span class="at">axis1 =</span> app_usage, <span class="at">axis2 =</span> screen_time, <span class="at">axis3 =</span> data_usage)) <span class="sc">+</span></span>
+<span id="cb28-12"><a href="#cb28-12" aria-hidden="true" tabindex="-1"></a>  <span class="fu">geom_alluvium</span>(<span class="fu">aes</span>(<span class="at">fill =</span> user_behavior_class)) <span class="sc">+</span></span>
+<span id="cb28-13"><a href="#cb28-13" aria-hidden="true" tabindex="-1"></a>  <span class="fu">geom_stratum</span>() <span class="sc">+</span></span>
+<span id="cb28-14"><a href="#cb28-14" aria-hidden="true" tabindex="-1"></a>  <span class="fu">geom_label</span>(<span class="at">stat =</span> <span class="st">"stratum"</span>, <span class="fu">aes</span>(<span class="at">label =</span> <span class="fu">after_stat</span>(stratum))) <span class="sc">+</span></span>
+<span id="cb28-15"><a href="#cb28-15" aria-hidden="true" tabindex="-1"></a>  <span class="fu">scale_x_discrete</span>(<span class="at">limits =</span> <span class="fu">c</span>(<span class="st">"App Usage"</span>, <span class="st">"Screen Time"</span>, <span class="st">"Data Usage"</span>)) <span class="sc">+</span></span>
+<span id="cb28-16"><a href="#cb28-16" aria-hidden="true" tabindex="-1"></a>  <span class="fu">labs</span>(<span class="at">fill =</span> <span class="st">"User Behavior Class"</span>) <span class="sc">+</span></span>
+<span id="cb28-17"><a href="#cb28-17" aria-hidden="true" tabindex="-1"></a>  <span class="fu">ggtitle</span>(<span class="st">"Analyzing the Composition of User Behavior Class"</span>) <span class="sc">+</span></span>
+<span id="cb28-18"><a href="#cb28-18" aria-hidden="true" tabindex="-1"></a>  <span class="fu">scale_fill_brewer</span>(<span class="at">palette=</span><span class="st">"Set1"</span>)</span></code><button title="Copy to Clipboard" class="code-copy-button"><i class="bi"></i></button></pre></div>
+<div class="cell-output-display">
+<div>
+<figure class="figure">
+<p><img src="mobile_usage_app_prep_files/figure-html/unnamed-chunk-14-1.png" class="img-fluid figure-img" width="672"></p>
+</figure>
+</div>
+</div>
+</div>
+<div class="cell">
+<div class="sourceCode cell-code" id="cb29"><pre class="sourceCode r code-with-copy"><code class="sourceCode r"><span id="cb29-1"><a href="#cb29-1" aria-hidden="true" tabindex="-1"></a>user_behavior_dataset <span class="sc">|&gt;</span></span>
+<span id="cb29-2"><a href="#cb29-2" aria-hidden="true" tabindex="-1"></a>  <span class="fu">mutate</span>(<span class="at">age_group =</span> <span class="fu">cut</span>(age,</span>
+<span id="cb29-3"><a href="#cb29-3" aria-hidden="true" tabindex="-1"></a>                        <span class="at">breaks =</span> <span class="fu">c</span>(<span class="dv">15</span>, <span class="dv">25</span>, <span class="dv">35</span>, <span class="dv">45</span>, <span class="dv">55</span>, <span class="dv">65</span>),</span>
+<span id="cb29-4"><a href="#cb29-4" aria-hidden="true" tabindex="-1"></a>                        <span class="at">labels =</span> <span class="fu">c</span>(<span class="st">"Under 25"</span>, <span class="st">"25-34"</span>, <span class="st">"35-44"</span>, <span class="st">"45-54"</span>, <span class="st">"55 and Over"</span>),</span>
+<span id="cb29-5"><a href="#cb29-5" aria-hidden="true" tabindex="-1"></a>                        <span class="at">include.lowest =</span> T,</span>
+<span id="cb29-6"><a href="#cb29-6" aria-hidden="true" tabindex="-1"></a>                        <span class="at">right =</span> F)) <span class="sc">|&gt;</span></span>
+<span id="cb29-7"><a href="#cb29-7" aria-hidden="true" tabindex="-1"></a>  <span class="fu">mutate</span>(<span class="at">app_usage =</span> <span class="fu">cut</span>(app_usage_time_min_day,</span>
+<span id="cb29-8"><a href="#cb29-8" aria-hidden="true" tabindex="-1"></a>                        <span class="at">breaks =</span> <span class="dv">2</span>,</span>
+<span id="cb29-9"><a href="#cb29-9" aria-hidden="true" tabindex="-1"></a>                        <span class="at">labels =</span> <span class="fu">c</span>(<span class="st">"Low"</span>, <span class="st">"High"</span>),</span>
+<span id="cb29-10"><a href="#cb29-10" aria-hidden="true" tabindex="-1"></a>                        <span class="at">include.lowest =</span> T,</span>
+<span id="cb29-11"><a href="#cb29-11" aria-hidden="true" tabindex="-1"></a>                        <span class="at">right =</span> F)) <span class="sc">|&gt;</span></span>
+<span id="cb29-12"><a href="#cb29-12" aria-hidden="true" tabindex="-1"></a>  <span class="fu">mutate</span>(<span class="at">data_usage =</span> <span class="fu">cut</span>(data_usage_mb_day,</span>
+<span id="cb29-13"><a href="#cb29-13" aria-hidden="true" tabindex="-1"></a>                        <span class="at">breaks =</span> <span class="dv">2</span>,</span>
+<span id="cb29-14"><a href="#cb29-14" aria-hidden="true" tabindex="-1"></a>                        <span class="at">labels =</span> <span class="fu">c</span>(<span class="st">"Light"</span>, <span class="st">"Heavy"</span>),</span>
+<span id="cb29-15"><a href="#cb29-15" aria-hidden="true" tabindex="-1"></a>                        <span class="at">include.lowest =</span> T,</span>
+<span id="cb29-16"><a href="#cb29-16" aria-hidden="true" tabindex="-1"></a>                        <span class="at">right =</span> F)) <span class="sc">|&gt;</span></span>
+<span id="cb29-17"><a href="#cb29-17" aria-hidden="true" tabindex="-1"></a>  <span class="fu">ggplot</span>() <span class="sc">+</span></span>
+<span id="cb29-18"><a href="#cb29-18" aria-hidden="true" tabindex="-1"></a>  <span class="fu">geom_mosaic</span>(<span class="fu">aes</span>(<span class="at">x =</span> <span class="fu">product</span>(age_group), <span class="at">fill =</span> user_behavior_class)) <span class="sc">+</span></span>
+<span id="cb29-19"><a href="#cb29-19" aria-hidden="true" tabindex="-1"></a>  <span class="fu">theme_mosaic</span>() <span class="sc">+</span></span>
+<span id="cb29-20"><a href="#cb29-20" aria-hidden="true" tabindex="-1"></a>  <span class="fu">theme</span>(<span class="at">legend.position =</span> <span class="st">"none"</span>) <span class="sc">+</span></span>
+<span id="cb29-21"><a href="#cb29-21" aria-hidden="true" tabindex="-1"></a>  <span class="fu">xlab</span>(<span class="st">"Age Group"</span>) <span class="sc">+</span></span>
+<span id="cb29-22"><a href="#cb29-22" aria-hidden="true" tabindex="-1"></a>  <span class="fu">ylab</span>(<span class="st">"User Behavior Class"</span>) <span class="sc">+</span></span>
+<span id="cb29-23"><a href="#cb29-23" aria-hidden="true" tabindex="-1"></a>  <span class="fu">ggtitle</span>(<span class="st">"Relative Size of User Behavior Class by Age Group"</span>) <span class="sc">+</span></span>
+<span id="cb29-24"><a href="#cb29-24" aria-hidden="true" tabindex="-1"></a>  <span class="fu">scale_fill_brewer</span>(<span class="at">palette=</span><span class="st">"Set1"</span>)</span></code><button title="Copy to Clipboard" class="code-copy-button"><i class="bi"></i></button></pre></div>
+<div class="cell-output cell-output-stderr">
+<pre><code>Warning: The `scale_name` argument of `continuous_scale()` is deprecated as of ggplot2
+3.5.0.</code></pre>
+</div>
+<div class="cell-output cell-output-stderr">
+<pre><code>Warning: The `trans` argument of `continuous_scale()` is deprecated as of ggplot2 3.5.0.
+ℹ Please use the `transform` argument instead.</code></pre>
+</div>
+<div class="cell-output cell-output-stderr">
+<pre><code>Warning: `unite_()` was deprecated in tidyr 1.2.0.
+ℹ Please use `unite()` instead.
+ℹ The deprecated feature was likely used in the ggmosaic package.
+  Please report the issue at &lt;https://github.com/haleyjeppson/ggmosaic&gt;.</code></pre>
+</div>
+<div class="cell-output-display">
+<div>
+<figure class="figure">
+<p><img src="mobile_usage_app_prep_files/figure-html/unnamed-chunk-15-1.png" class="img-fluid figure-img" width="672"></p>
 </figure>
 </div>
 </div>
